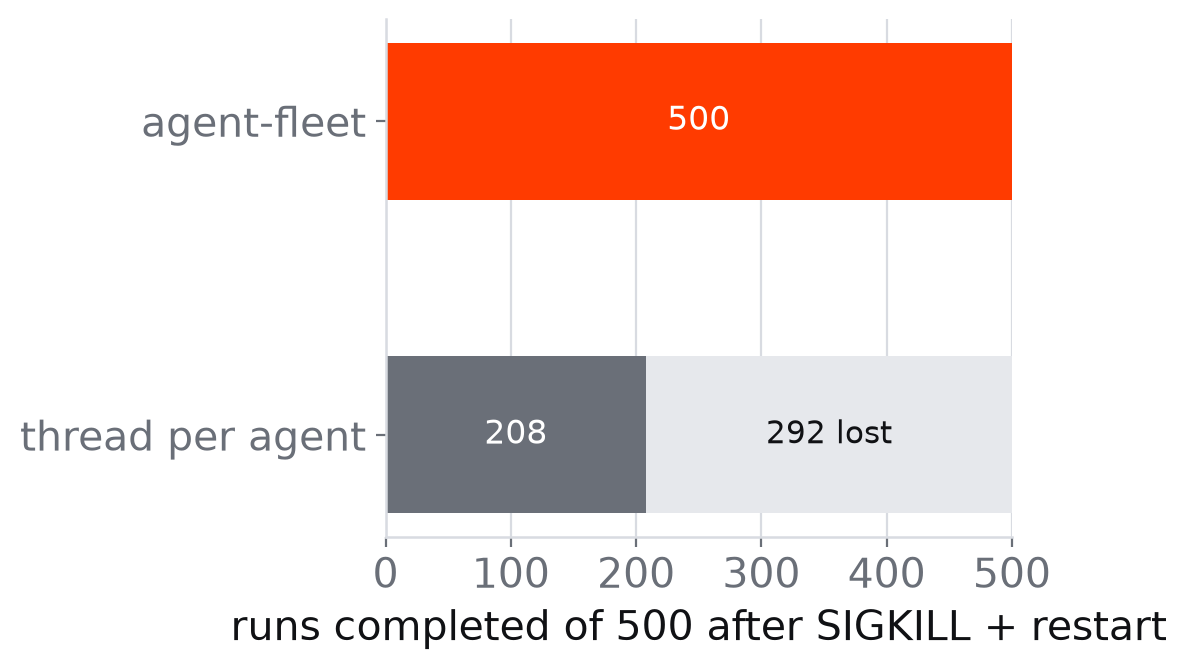
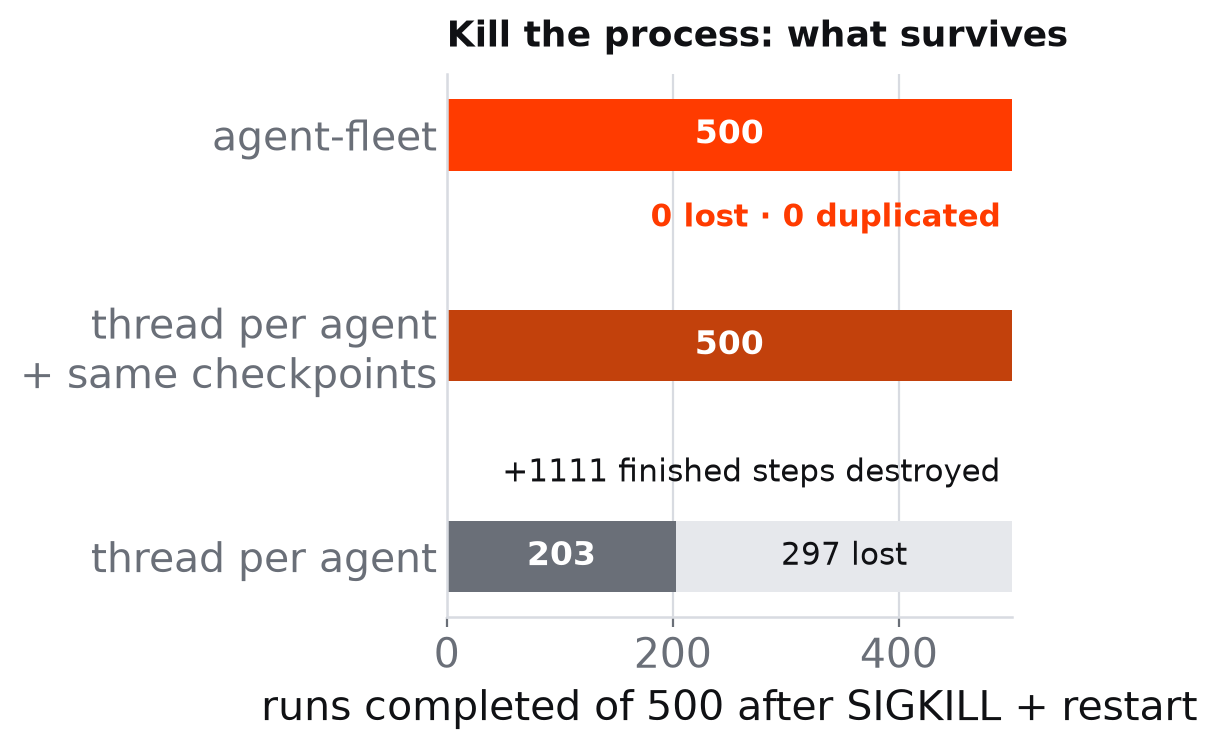
Correct four accuracy defects two reviewers found independently
The thread-per-agent baseline is 203 completed and 297 lost, not 208 and
292; the page carried the old numbers in the body copy, the alt text and
a stale copy of the chart. Replaced the chart with the current one, which
also carries the durable-thread control the repo added so the figure does
not credit asyncio for what the commit protocol does.

The diagnosis headline said five injected faults. The ledger has five
configurations, one of which injects nothing and exists to show the tool
stays quiet. Four faults, plus a baseline.

Peek's geocoding service has eighteen Cython hot paths. The Experience row
said six and the Also row said eighteen, for the same project.

Changed region(s): [[0.0, 0.0299, 0.9983, 0.9851], [0.312, 0.8358, 0.3744, 0.8955]]

diff --git a/index.html b/index.html
@@ -187,8 +187,8 @@
           </div>
         </div>
         <div class="result">
-          <span class="n">5<small>/5</small></span>
-          <span class="k">injected throughput faults the diagnosis tool found and ranked: dataloader stall at 37.1% of step time, an all-reduce that never overlaps compute, a batch too small to saturate. Measured MFU 47.7%.</span>
+          <span class="n">4<small>/4</small></span>
+          <span class="k">injected throughput faults the diagnosis tool found and ranked, plus a baseline run where it correctly reported nothing wrong: a dataloader stall at 37.1% of step time, an all-reduce that never overlaps compute, and a batch too small to saturate. Measured MFU 47.7%.</span>
         </div>
       </article>
 
@@ -253,9 +253,9 @@
         </div>
         <div class="result">
           <span class="n">0</span>
-          <span class="k">runs lost and zero duplicated when the process is killed mid-flight. The thread-per-agent baseline has nothing to resume from and loses 292.</span>
+          <span class="k">runs lost and zero duplicated when the process is killed mid-flight. The thread-per-agent baseline has nothing to resume from and loses 297. Give it the same commit protocol and it recovers too, so the durability belongs to the protocol rather than to asyncio.</span>
           <figure>
-            <img src="assets/agent-fleet-bench.png" alt="Bar chart: agent-fleet completes 500 of 500 runs after SIGKILL and restart; the thread-per-agent baseline completes 208 and loses 292." loading="lazy">
+            <img src="assets/agent-fleet-bench.png" alt="Bar chart: agent-fleet completes 500 of 500 runs after SIGKILL and restart; the thread-per-agent baseline completes 203 and loses 297." loading="lazy">
             <figcaption>500 runs, SIGKILL at 40% complete, then restart. Measured under <code>--cpus=1 --memory=1g</code>.</figcaption>
           </figure>
         </div>
@@ -310,7 +310,7 @@
       <div class="row rv"><span class="yr">2025</span><span class="nm">AI Research Assistant</span><span class="ds">Vrije Universiteit Amsterdam, Faculty of Computer Science. Language models driving behaviour-tree control of multi-agent systems.</span></div>
       <div class="row rv"><span class="yr">2025</span><span class="nm">Software Engineer</span><span class="ds">Marubeni American Corporation, freelance. VisionPay: distributed document extraction with a fine-tuned vision-language model, wired into SAP, plus the disaster-recovery runbook for it.</span></div>
       <div class="row rv"><span class="yr">2024 &ndash; 25</span><span class="nm">Quantitative Modeling Intern</span><span class="ds">ABN AMRO Bank. Quantitative model development on the data side of the bank, six months.</span></div>
-      <div class="row rv"><span class="yr">2021 &ndash; 23</span><span class="nm">Software Engineer</span><span class="ds">Peek Real Estate. Built and ran the geocoding and points-of-interest service listed below: FastAPI over MongoDB 2dSphere indexes, Elasticsearch, per-client rate limiting, and six hot paths compiled to C with Cython. 341 commits, all mine.</span></div>
+      <div class="row rv"><span class="yr">2021 &ndash; 23</span><span class="nm">Software Engineer</span><span class="ds">Peek Real Estate. Built and ran the geocoding and points-of-interest service listed below: FastAPI over MongoDB 2dSphere indexes, Elasticsearch, per-client rate limiting, and eighteen hot paths compiled to C with Cython. 341 commits, all mine.</span></div>
       <div class="row divider rv"><span class="yr"></span><span class="nm">Education</span><span class="ds"></span></div>
       <div class="row rv"><span class="yr">2026</span><span class="nm">MSc Econometrics</span><span class="ds">University of Amsterdam, Data Science track. Thesis above.</span></div>
       <div class="row rv"><span class="yr">2025</span><span class="nm">BSc Econometrics &amp; Data Science</span><span class="ds">University of Amsterdam. Thesis on Taylor-rule central-bank rates inside an agent-based macro model, on Eurozone data: at the twelve-quarter horizon the inflation-gap rule cut out-of-sample RMSE by up to <strong>33.9%</strong> against an AR(1) baseline and <strong>38.8%</strong> against a VAR(1) baseline.</span></div>
